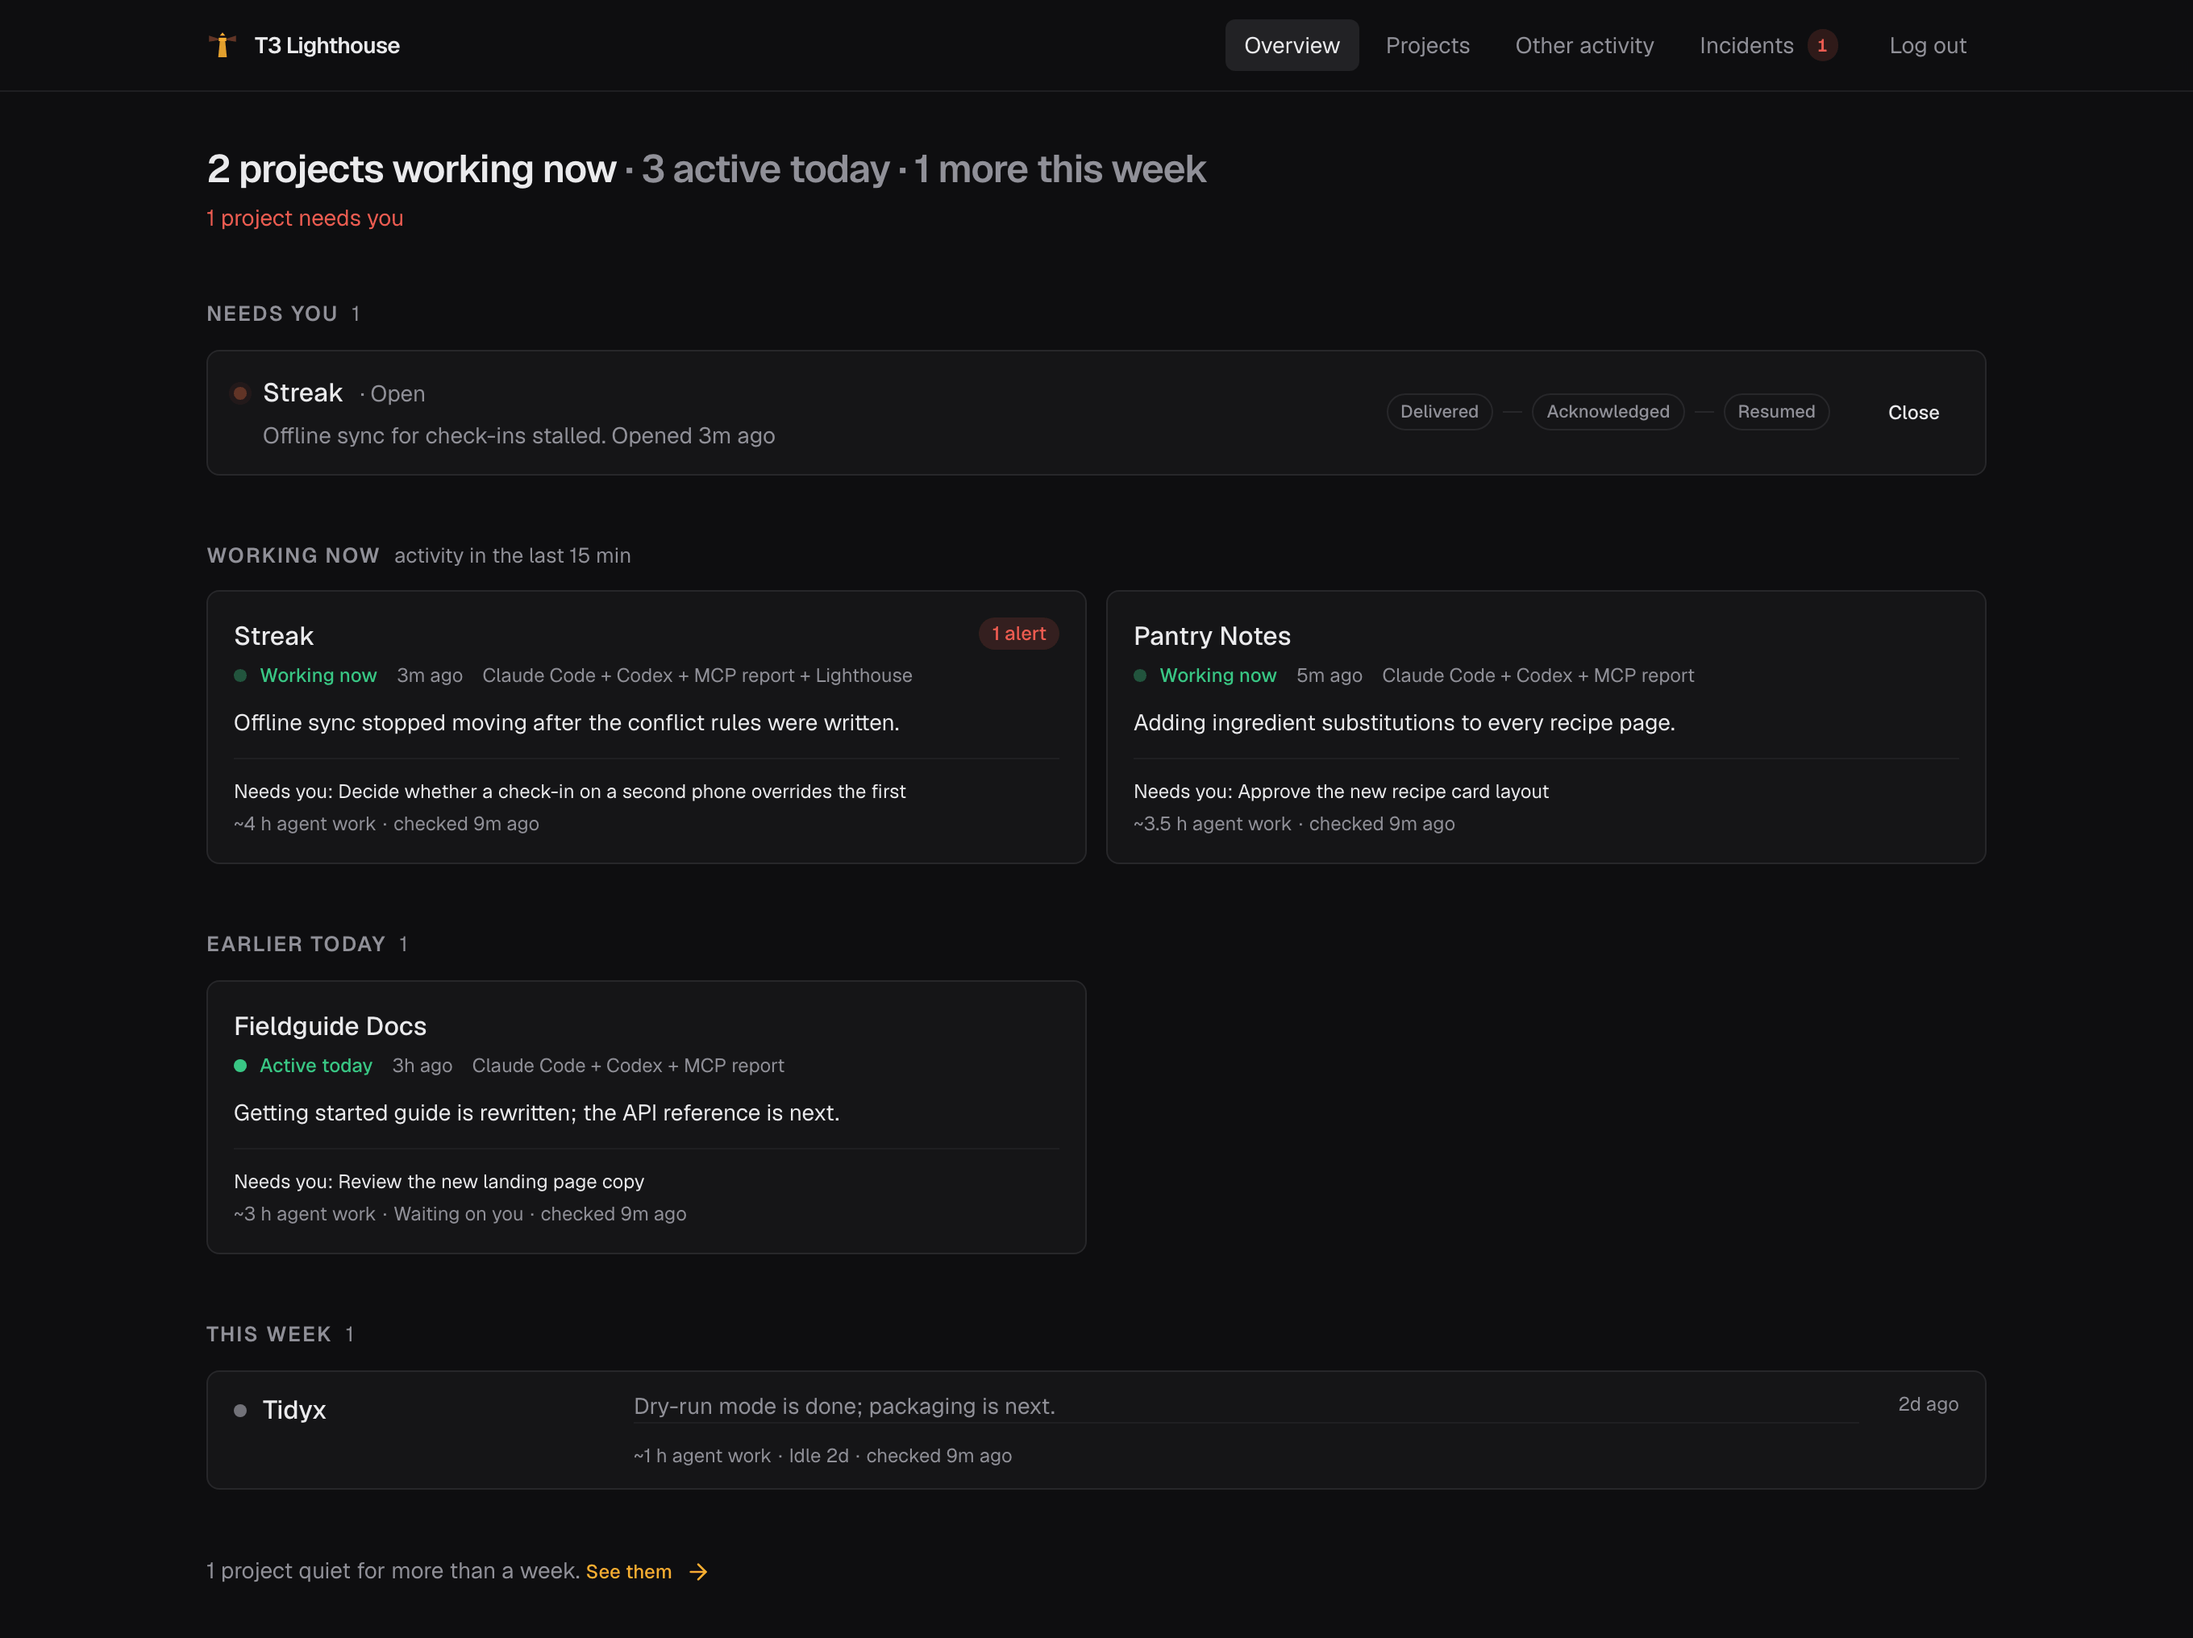
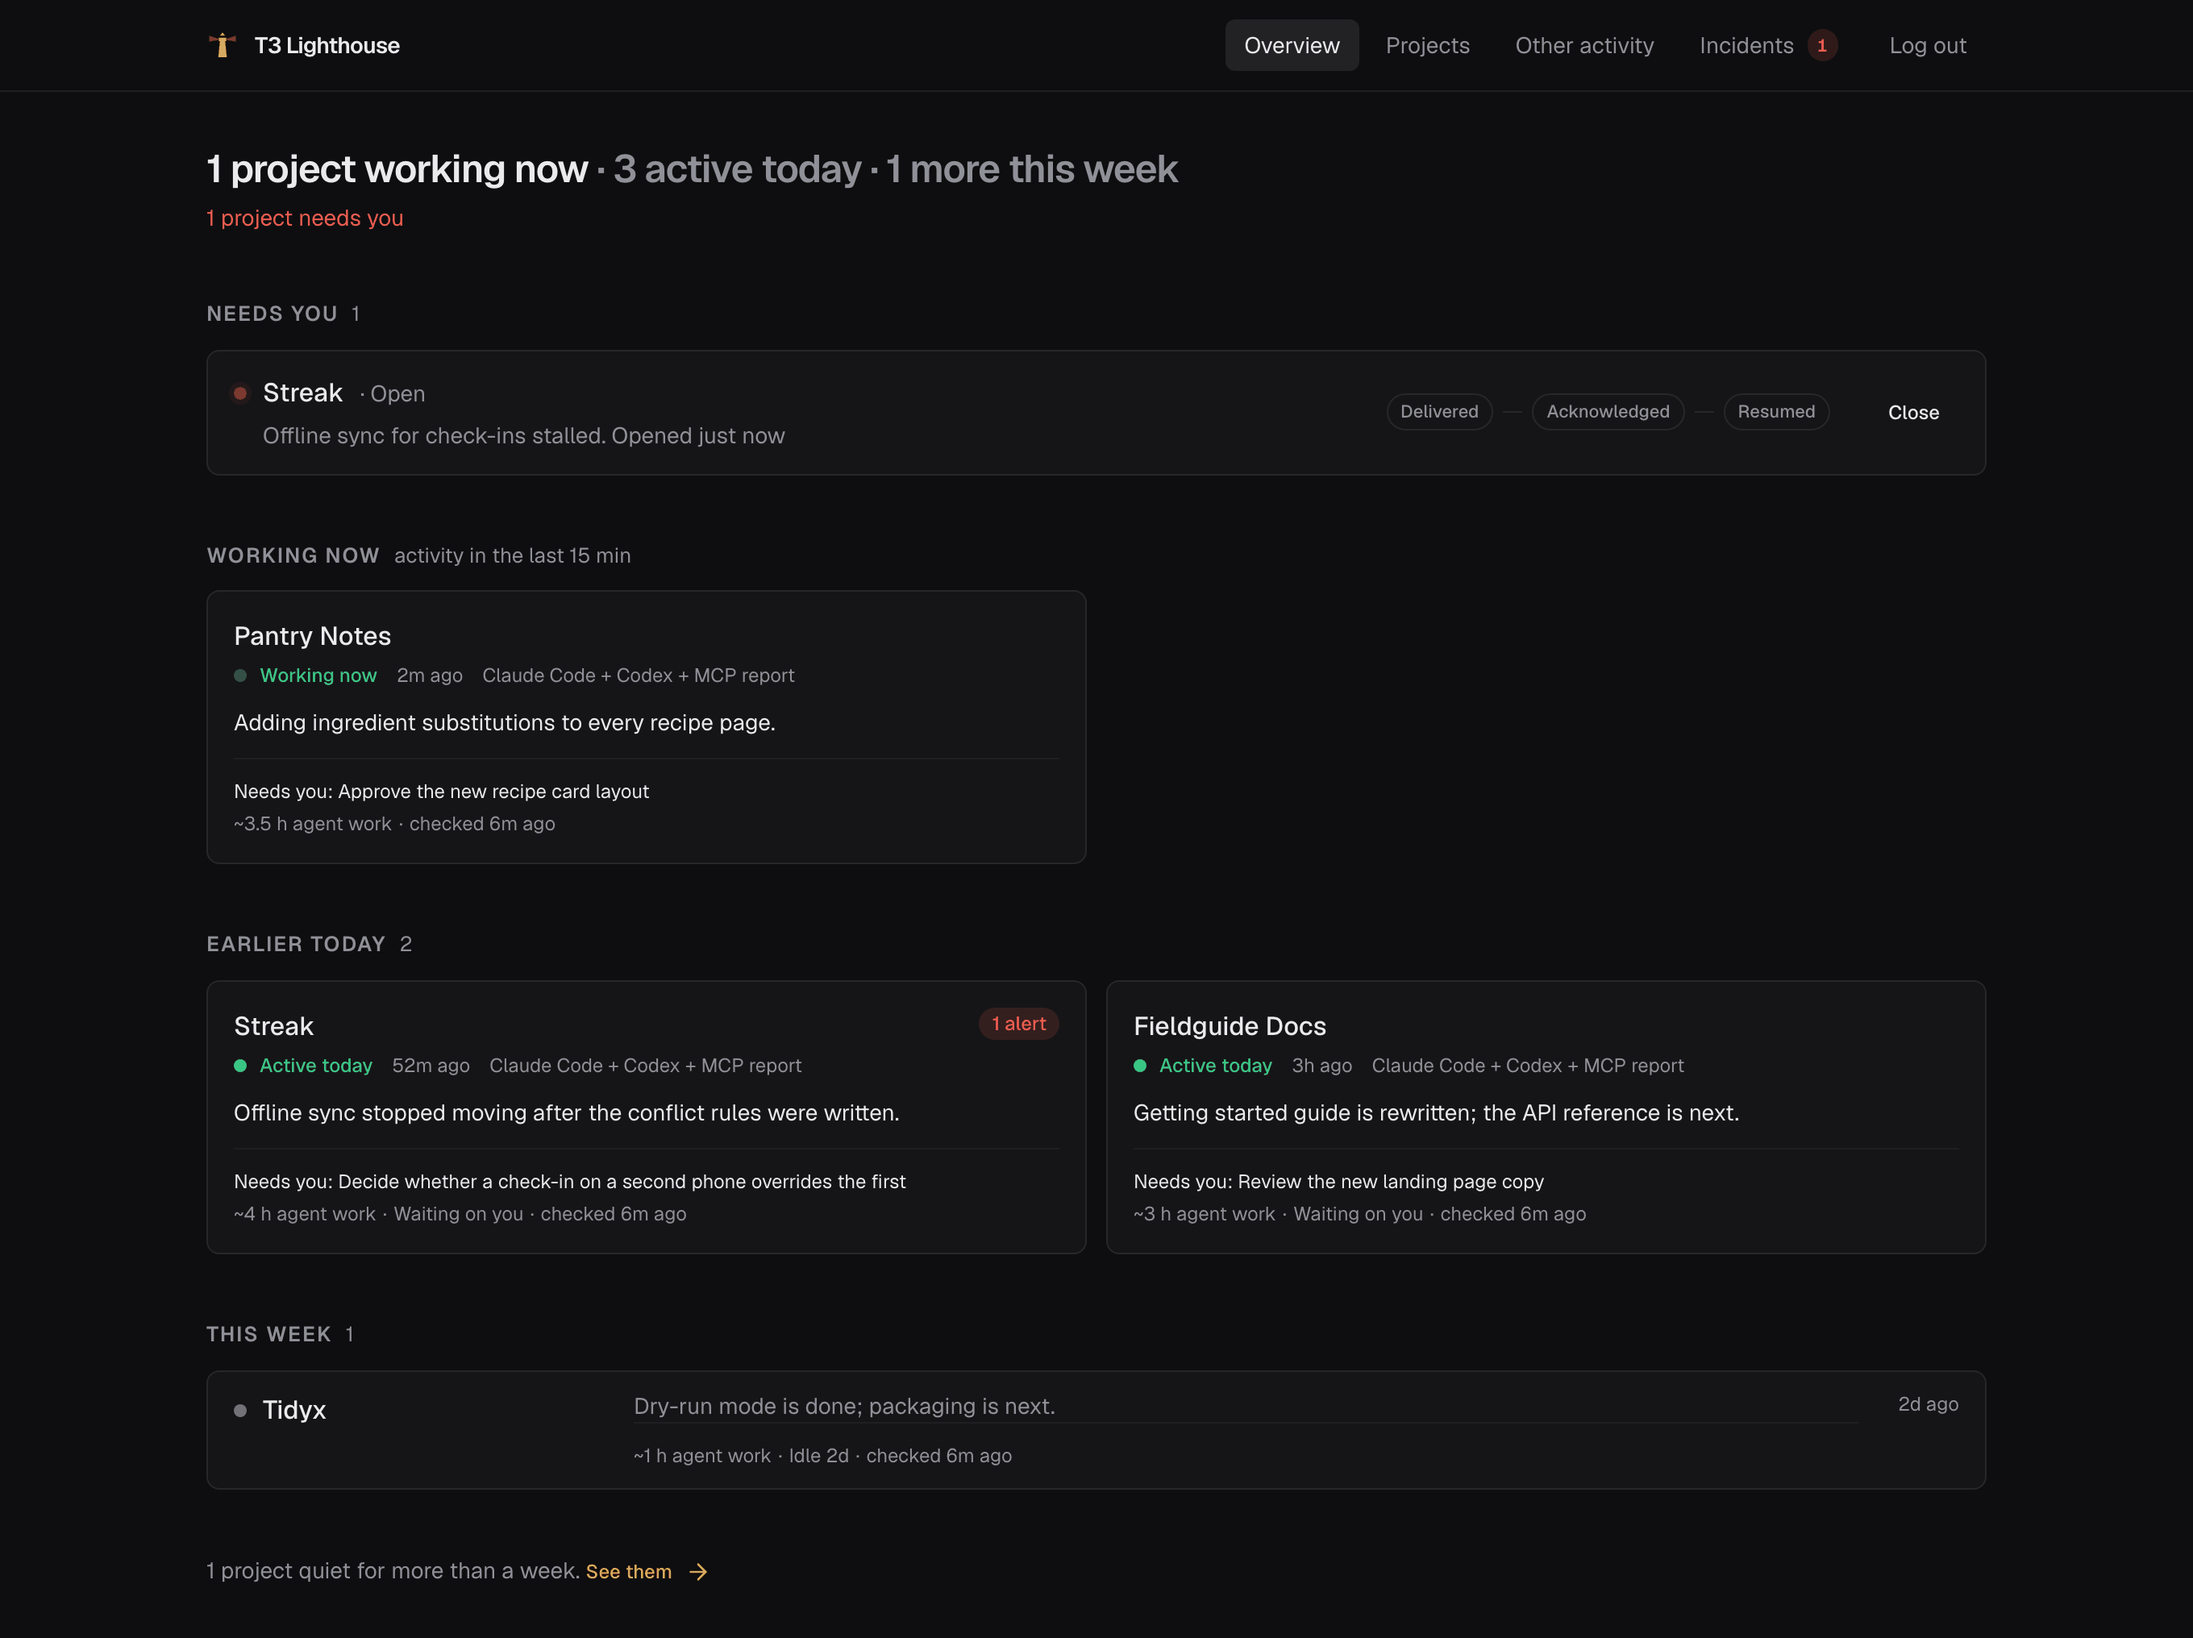
Retake the README screenshots and add a phone view
Taken from a fresh demo install of 17cf552: Streak now shows under Earlier
today with its alert, and the Incidents page no longer warns about T3.

diff --git a/README.md b/README.md
@@ -11,7 +11,7 @@ curl -fsSL https://raw.githubusercontent.com/dpreil-ydlp/t3-lighthouse/main/inst
 
 You need Docker with Compose v2. The script installs into `~/t3-lighthouse`, starts the containers, and ends by printing the dashboard address and the token you sign in with. A fresh install took under a minute on an arm64 Linux machine with a fast connection. Read [install.sh](install.sh) first if you like; it is short.
 
-![The Lighthouse overview: one project needs you, agents are working on two, and two more were active this week](docs/images/overview.png)
+![The Lighthouse overview: one project needs you, agents are working on one, two more were active earlier today, and one this week](docs/images/overview.png)
 
 Want to look around before pointing it at your own work? Add the demo projects:
 
@@ -22,6 +22,8 @@ curl -fsSL https://raw.githubusercontent.com/dpreil-ydlp/t3-lighthouse/main/inst
 ## What you get
 
 **Every project on one screen.** Lighthouse finds projects from the folders your agents work in and sorts them by when something last happened: working now, earlier today, this week, gone quiet.
+
+<img src="docs/images/overview-phone.png" width="300" alt="The overview on a phone: the stalled project that needs you, then the project agents are working on now">
 
 **A brief for each project.** What it is, what is done, what is left, and which of the remaining items are waiting on you rather than an agent. An optional job on your Mac writes it with Claude ([what it sends](#project-briefs)).
 
